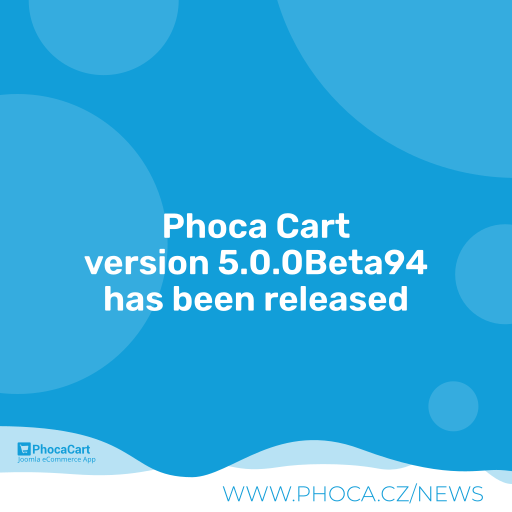
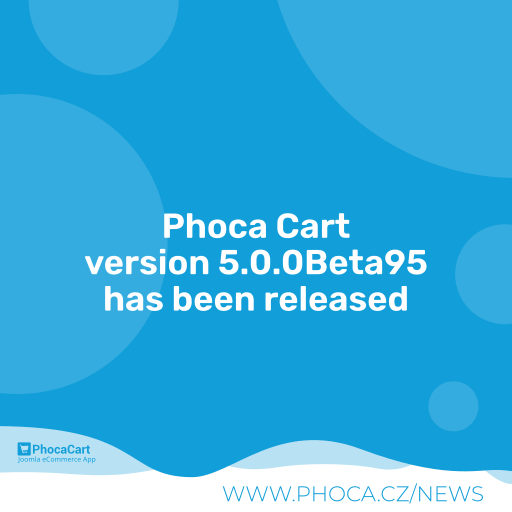
5.0.0Beta95

Changed region(s): [[0.1562, 0.4688, 0.8438, 0.5312]]

diff --git a/media/css/main.css b/media/css/main.css
@@ -2601,6 +2601,16 @@ form.ph-form-placeholder .ph-checkout-billing-row {
     margin-bottom: 1em;
 }
 
+.ph-shipping-price-box,
+.ph-shipping-title-box,
+.ph-payment-price-box,
+.ph-payment-title-box{
+    display: flex;
+    flex-direction:column;
+    justify-content: center;
+    margin: 1em 0;
+}
+
 
 /* Possible Info about discounted product */
 /*

diff --git a/site/views/checkout/tmpl/default_payment.php b/site/views/checkout/tmpl/default_payment.php
@@ -123,8 +123,11 @@ if ($this->a->paymentnotused == 1) {
 
 	//echo '<div class="'.$this->s['c']['row'].' ph-checkout-shipping-cost-box">';
 
+	echo '<div class="'.$this->s['c']['row'].' ph-checkout-payment-items-box">';
+
 	foreach($this->t['paymentmethods'] as $k => $v) {
 
+		echo '<div class="'.$this->s['c']['row'].' ph-checkout-payment-item">';
 
 		$checked = '';
 		if (isset($v->selected) && $v->selected == 1 ) {
@@ -210,6 +213,8 @@ if ($this->a->paymentnotused == 1) {
 		echo '</div>';// end row second column
 		//echo '<div class="ph-cb grid"></div>';
 
+		echo '</div>'; // end checkout payment item
+
 	}
 
 	//echo '<div class="ph-cb"></div>';
@@ -231,7 +236,7 @@ if ($this->a->paymentnotused == 1) {
 		//echo '<div class="ph-cb"></div>';
 	}
 
-	//echo '</div>';// end payment cost box
+	echo '</div>';// end payment items box
 	//echo '</div>';// end payment row
 
 	//echo '<div class="ph-cb"></div>';

diff --git a/site/views/checkout/tmpl/default_shipping.php b/site/views/checkout/tmpl/default_shipping.php
@@ -201,8 +201,11 @@ if ($this->a->shippingnotused == 1) {
 
 	//echo '<div class="'.$this->s['c']['row'].' ph-checkout-shipping-cost-box">';
 
+	echo '<div class="'.$this->s['c']['row'].' ph-checkout-shipping-items-box">';
+
 	foreach($this->t['shippingmethods'] as $k => $v) {
 
+		echo '<div class="'.$this->s['c']['row'].' ph-checkout-shipping-item">';
 
 		$checked = '';
 		if (isset($v->selected) && $v->selected == 1 ) {
@@ -300,11 +303,13 @@ if ($this->a->shippingnotused == 1) {
 		echo '</div>';// end row second column
 		//echo '<div class="ph-cb grid"></div>';
 
+		echo '</div>'; // end checkout shipping item
+
 	}
 
 	//echo '<div class="ph-cb"></div>';
 
-	//echo '</div>';// end shipping cost box
+	echo '</div>';// end shipping items box
 	//echo '</div>';// end shipping row
 
 	//echo '<div class="ph-cb"></div>';

diff --git a/admin/libraries/src/Schemaorg/Schema.php b/admin/libraries/src/Schemaorg/Schema.php
@@ -137,6 +137,9 @@ class Schema
         $offers = [];
         $offers['@type'] = 'Offer';
         $offers['price'] = $product->price;
+        $price  = new \PhocacartPrice();
+        $productPrice= $price->getPriceFormatRaw($product->price, 0, 0, 0, 2, '.', '');
+        $offers['price'] = $productPrice;
         $offers['priceCurrency'] = \PhocacartCurrency::getCurrency()->code;
         $offers['url'] = Route::_(\PhocacartRoute::getProductCanonicalLink($product->id, $product->catid, $product->alias, $product->catalias), true, Route::TLS_IGNORE, true);
         switch ($product->condition) {

diff --git a/README.MD b/README.MD
@@ -132,7 +132,7 @@ Phoca Cart is e-commerce extension - powerful shopping cart for Joomla! CMS. Pho
 
 ## Version (Joomla! 5.x)
 
-5.0.0Beta94
+5.0.0Beta95
 
 
 
